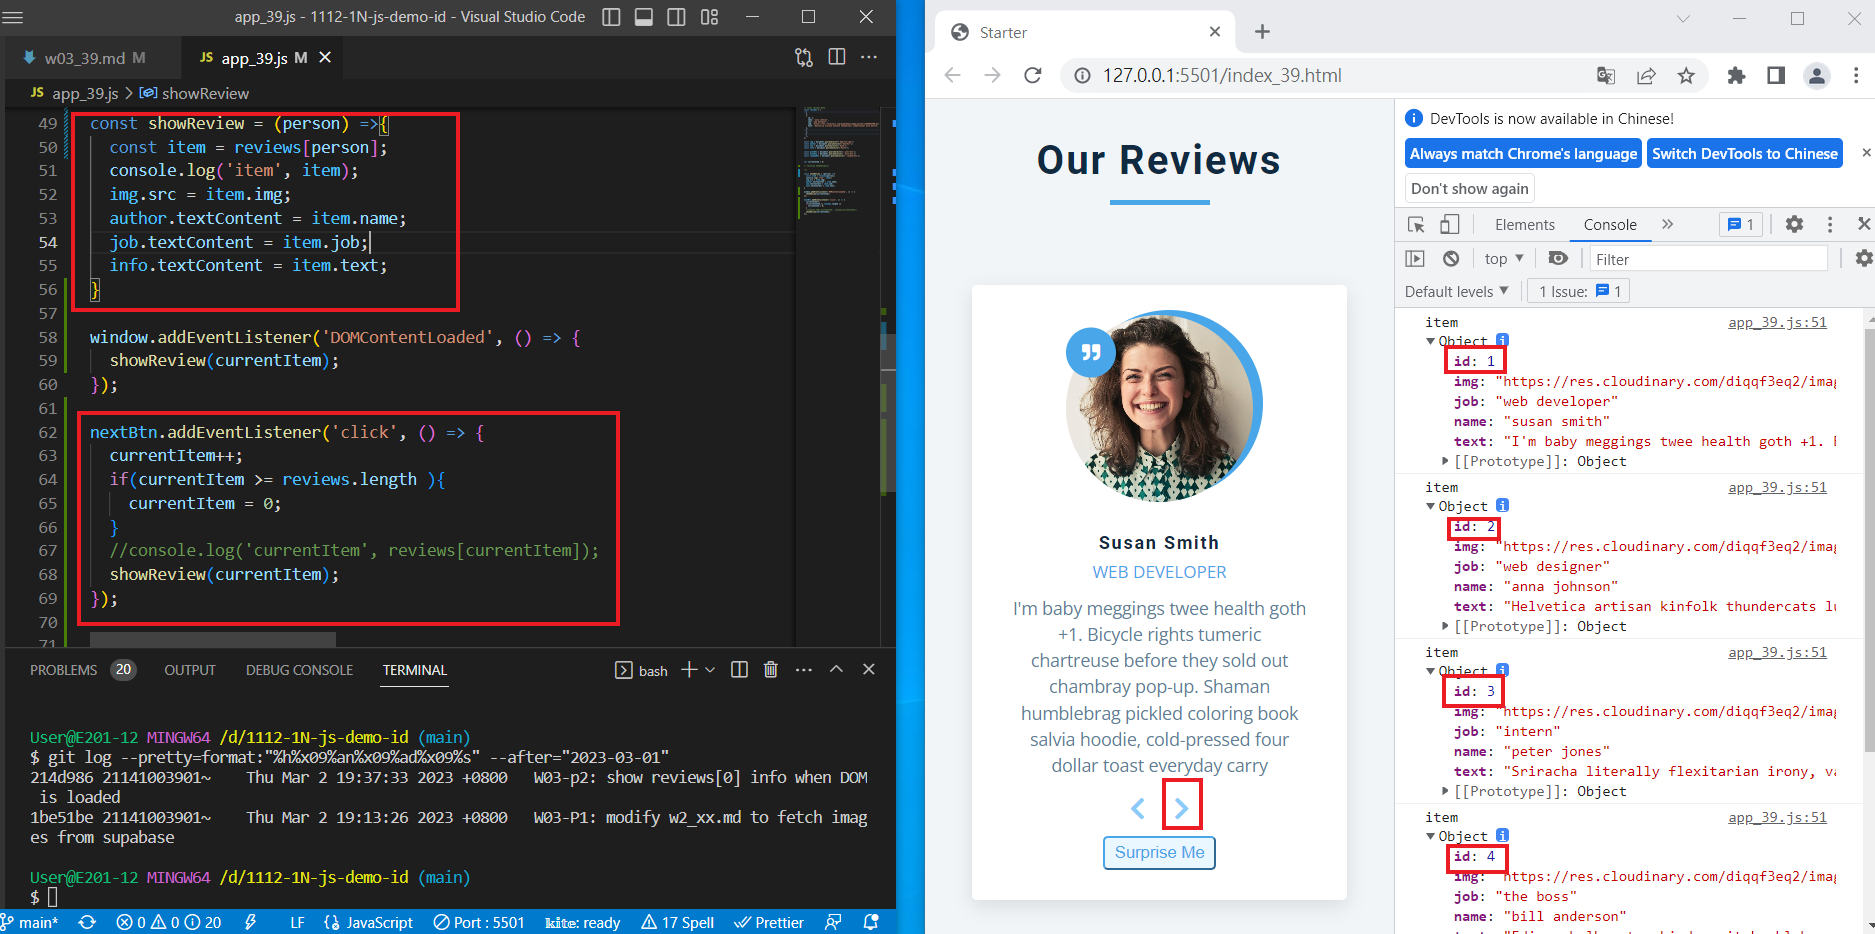
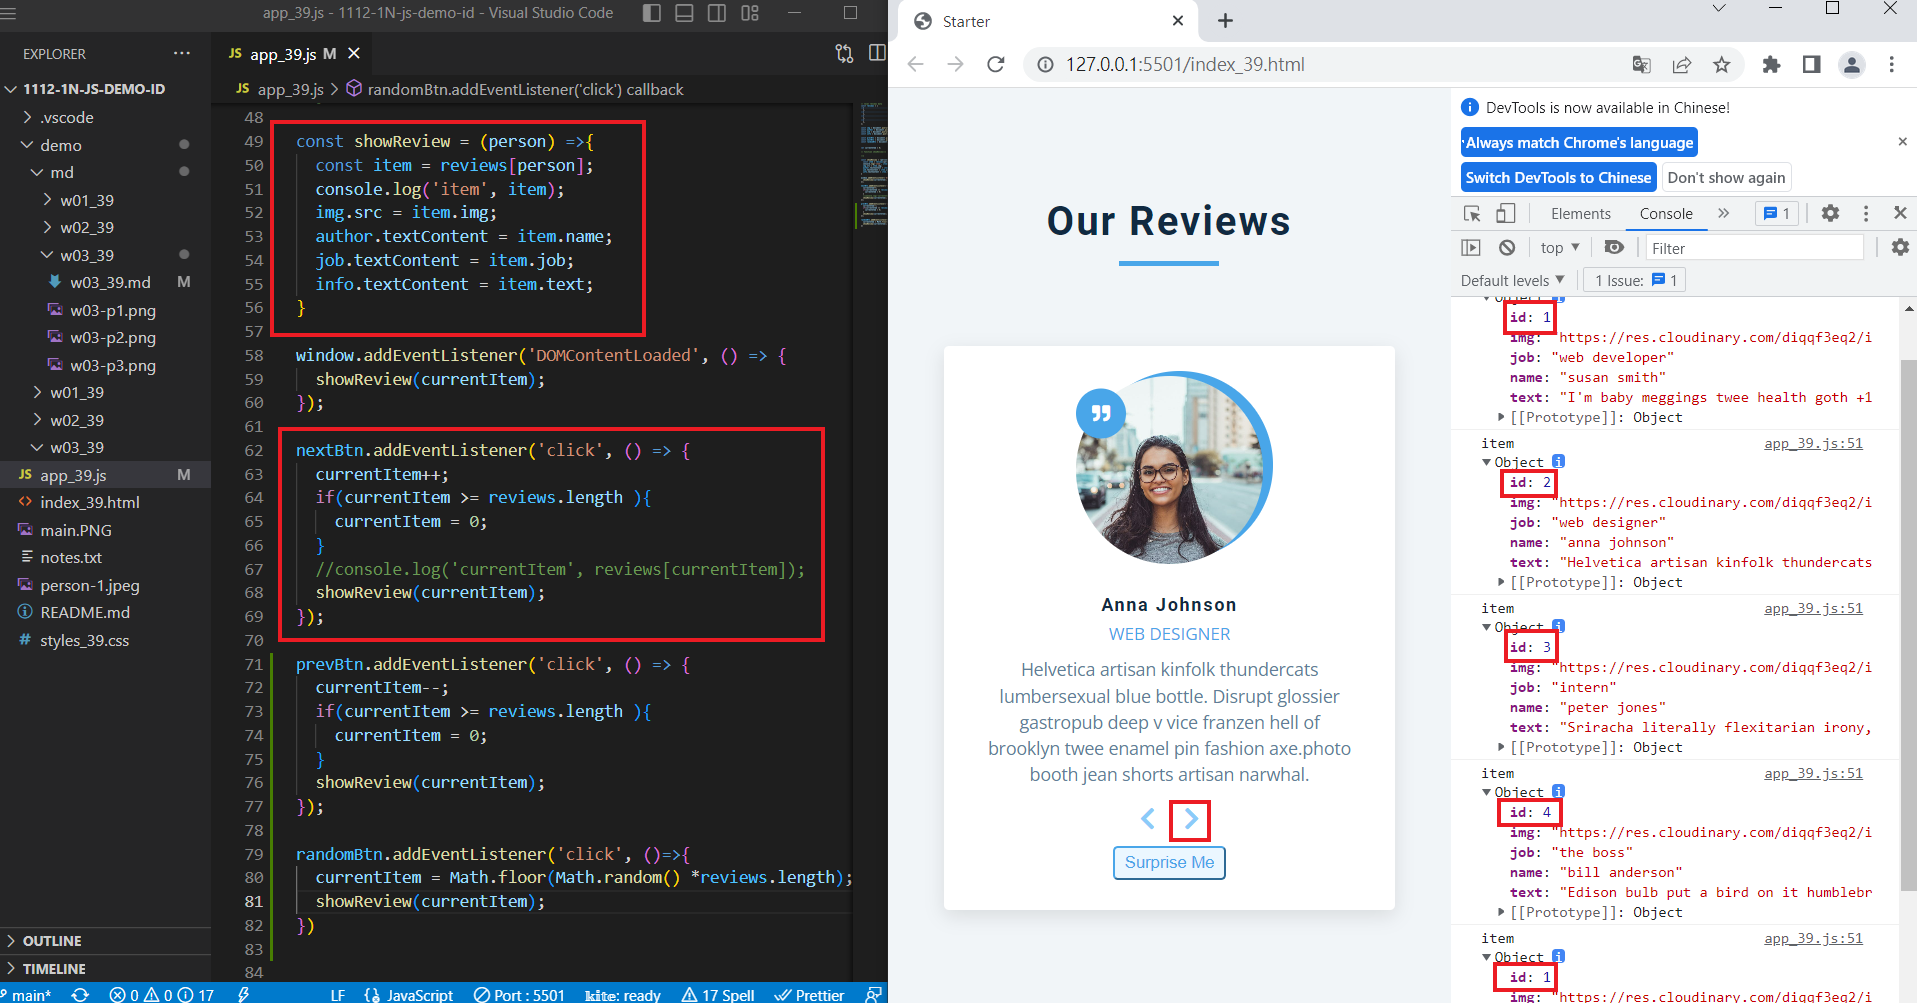
W03-P5: implement 'suprise me' button and show the sequence in console.log

diff --git a/app_39.js b/app_39.js
@@ -68,3 +68,16 @@ nextBtn.addEventListener('click', () => {
   showReview(currentItem);
 });
 
+prevBtn.addEventListener('click', () => {
+  currentItem--;
+  if(currentItem >= reviews.length ){
+    currentItem = 3;
+  }
+  showReview(currentItem);
+});
+
+randomBtn.addEventListener('click', ()=>{
+  currentItem = Math.floor(Math.random() *reviews.length);
+  showReview(currentItem);
+})
+

diff --git a/demo/md/w03_39/w03_39.md b/demo/md/w03_39/w03_39.md
@@ -13,9 +13,17 @@
 ![w03-p2.png](https://qmfqlvkbasosvmqhicrw.supabase.co/storage/v1/object/public/demo-39/md_img/w03-p2.png?t=2023-03-02T11%3A36%3A49.462Z)
 
 ```
-1be51be 21141003901~    Thu Mar 2 19:13:26 2023 +0800   W03-P1: modify w2_xx.md to fetch images from supabase
+214d986 21141003901~    Thu Mar 2 19:37:33 2023 +0800   W03-p2: show reviews[0] info when DOM is loaded
 ```
 
 ### W03-P3: implement next button and show the sequence in console.log
 
-![w03-p3.png](https://qmfqlvkbasosvmqhicrw.supabase.co/storage/v1/object/public/demo-39/md_img/w03-p3.png?t=2023-03-02T12%3A21%3A09.698Z)
+![w03-p3.png](https://qmfqlvkbasosvmqhicrw.supabase.co/storage/v1/object/public/demo-39/md_img/w03-p3.png?t=2023-03-02T12%3A42%3A33.903Z)
+
+```
+960ec4c 21141003901~    Thu Mar 2 20:21:48 2023 +0800   W03-P3: implement next button and show the sequence in console.log
+```
+
+### W03-P5: implement "suprise me" button and show the sequence in console.log
+
+![w03-p5.png](https://qmfqlvkbasosvmqhicrw.supabase.co/storage/v1/object/public/demo-39/md_img/w03-p5.png?t=2023-03-02T13%3A12%3A43.961Z)
